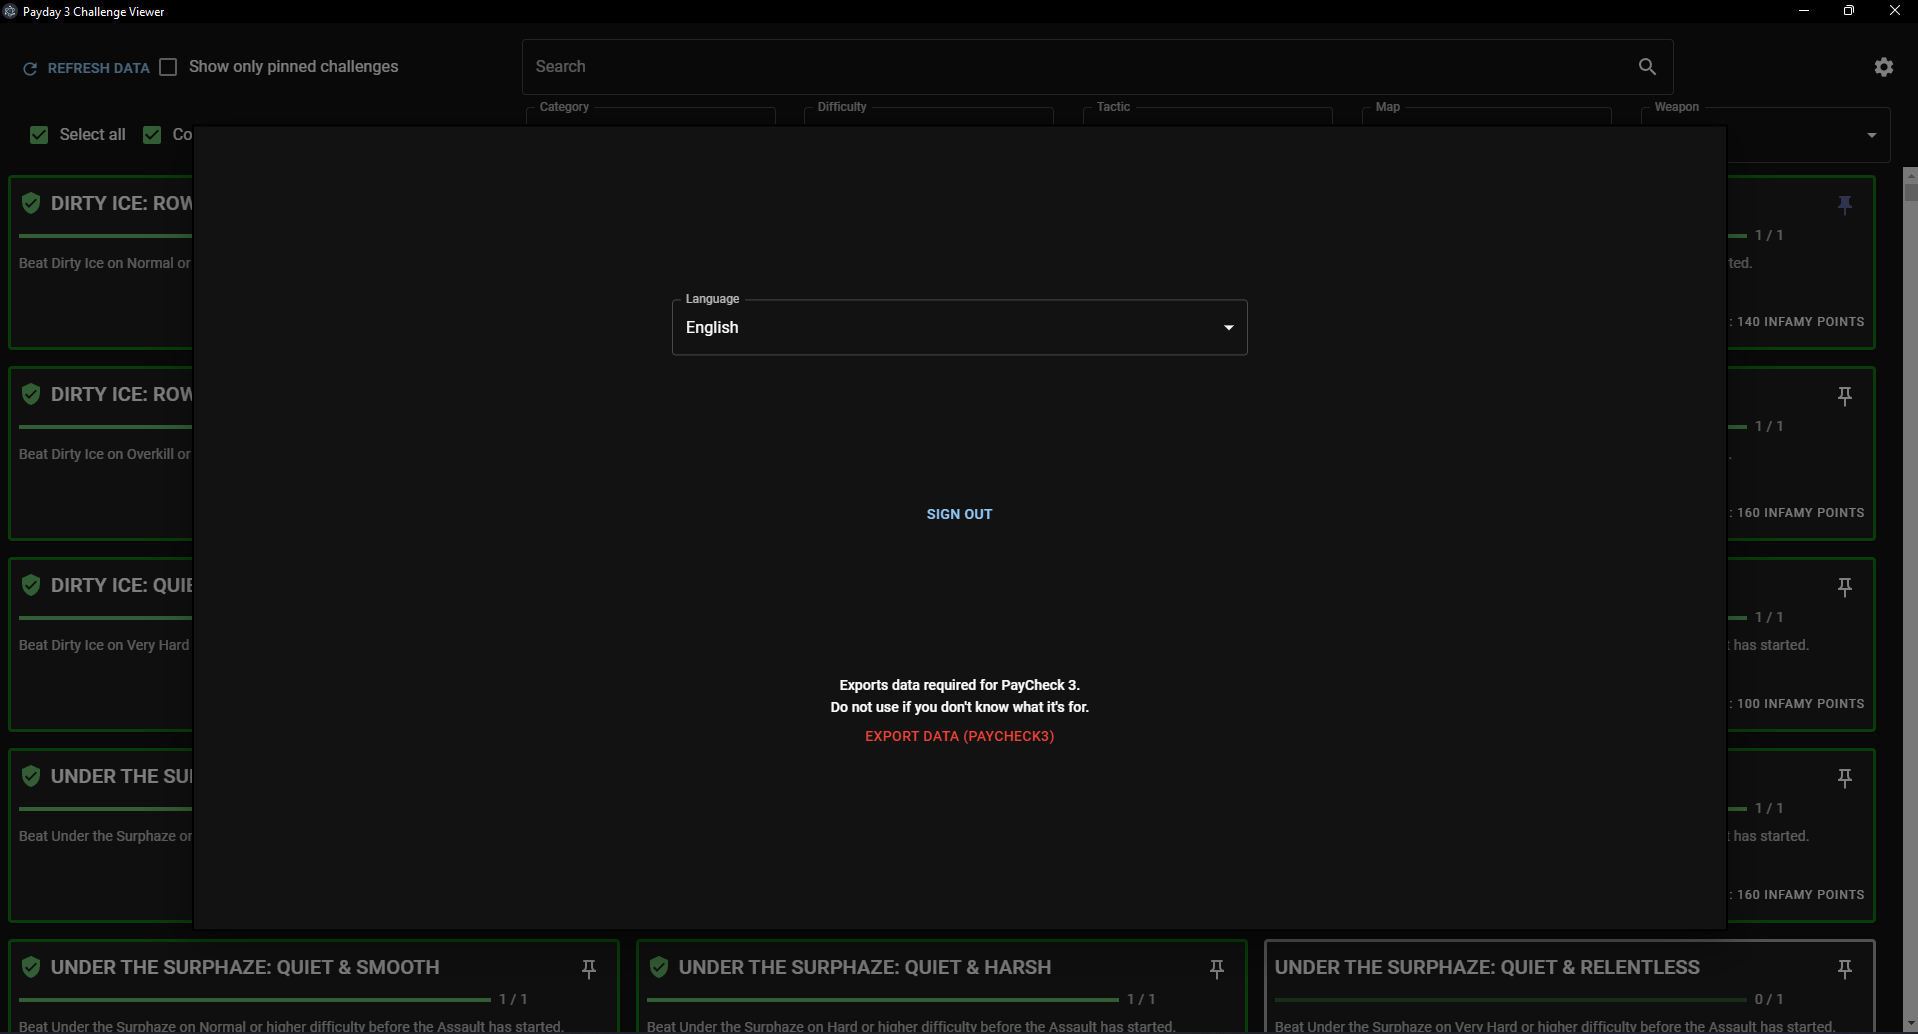
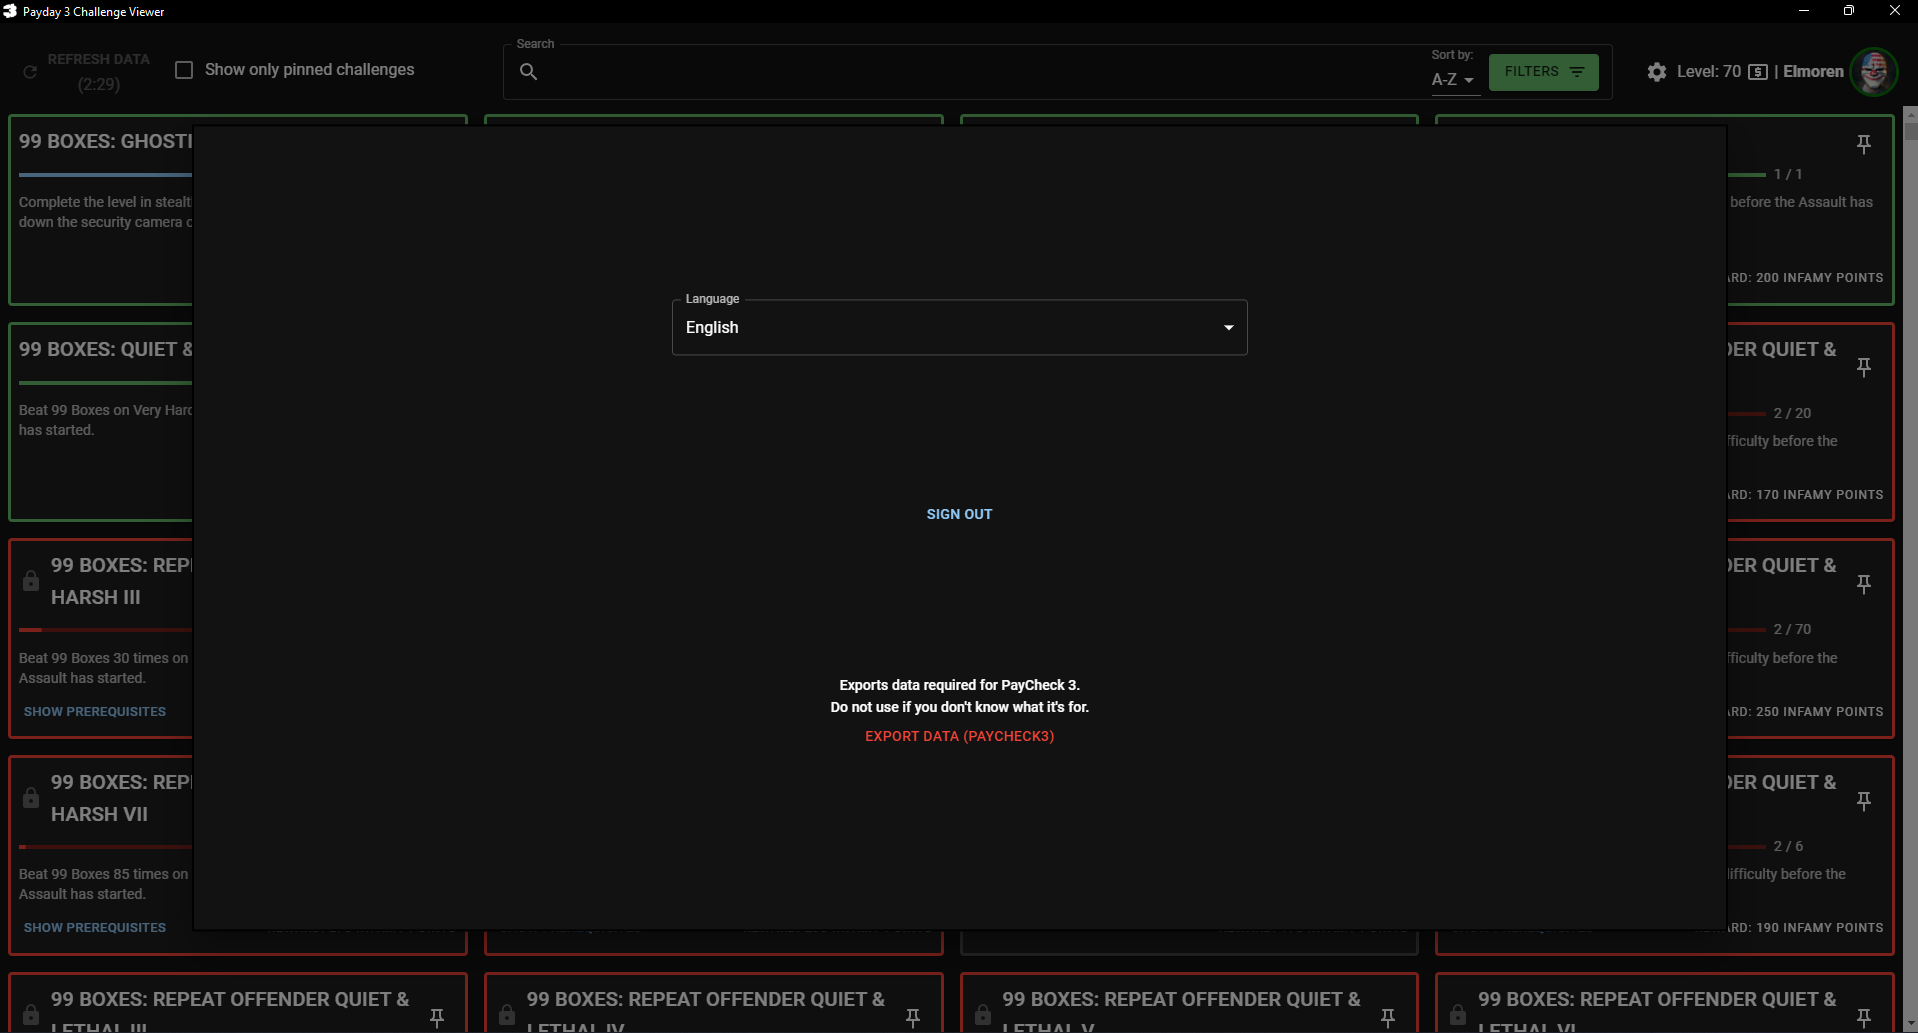
Updated screenshots

diff --git a/README.md b/README.md
@@ -39,6 +39,8 @@ This application allows you to check your challenge progression from outside the
 ![AppLogin](resources/appLogin.png)
 ![AppInterface](resources/appInterface.png)
 ![AppInterface2](resources/appInterface2.png)
+![AppInterface_Filters](resources/appInterface_filters.png)
+![AppInterface_Filters_weapons](resources/appInterface_filters_weapons.png)
 ![AppInterface_French](resources/appInterface_french.png)
 ![AppSettings](resources/appSettings.png)
 ![AppSettingsTranslation](resources/appSettings_translations.png)
